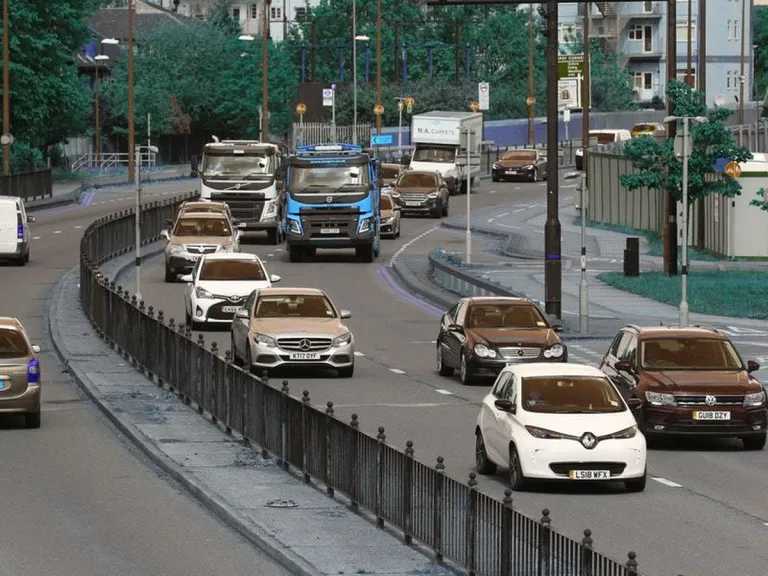
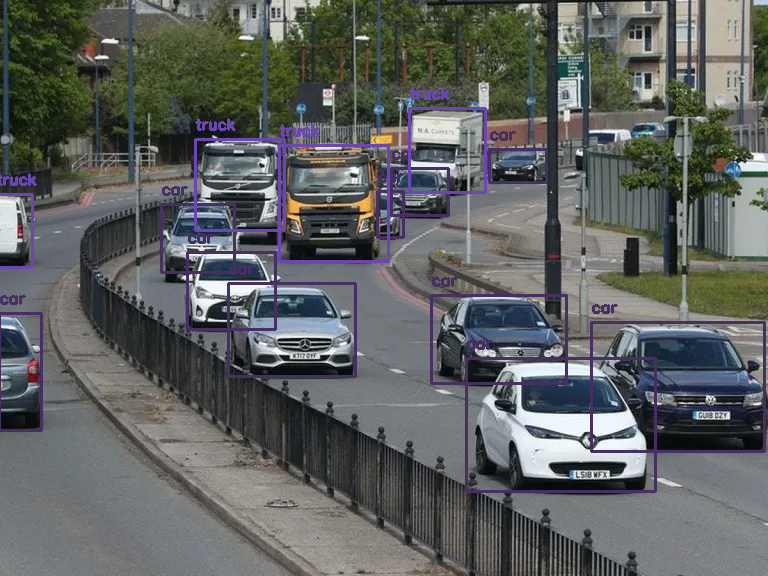
add a feature

diff --git a/main.py b/main.py
@@ -1,8 +1,7 @@
 from PyQt5.QtCore import Qt
 from count import count
-import sys
-from PyQt5.QtWidgets import QApplication , QMainWindow , QFileDialog , QPushButton , QLabel , QTextEdit, QWidget 
-from PyQt5.QtGui import QDragEnterEvent, QDragMoveEvent, QDropEvent, QPixmap , QIcon
+from PyQt5.QtWidgets import QApplication , QMainWindow , QFileDialog , QPushButton , QLabel , QTextEdit, QWidget  
+from PyQt5.QtGui import QDragEnterEvent, QDragMoveEvent, QDropEvent, QPixmap , QIcon 
 from PyQt5.uic import loadUi
 
 class MainWindow(QMainWindow):
@@ -26,9 +25,10 @@ class MainWindow(QMainWindow):
         else:
             result=count(obj_name,self.image_path)
             self.numObjectsLabel.setText(result[0])
+            self.set_output_image()
 
     def browse_files(self):
-        fname=QFileDialog.getOpenFileName(self,'Select Image','.\images','Images (*.png *.xmp *.jpg *.jpeg *.svg)')
+        fname=QFileDialog.getOpenFileName(self,'Select Image','E:\qt_programs\count\images','Images (*.png *.xmp *.jpg *.jpeg *.svg)')
         if(fname[0]==''):
             return
         self.imgLabel:QLabel
@@ -64,7 +64,13 @@ class MainWindow(QMainWindow):
                 self.imgLabel.size(), Qt.KeepAspectRatio, Qt.SmoothTransformation)
         self.imgLabel.setPixmap(scaled_pixmap)
 
-        
+    def set_output_image(self):
+        pixmap=QPixmap('images/output.png')
+        scaled_pixmap = pixmap.scaled(
+                self.imgLabel.size(), Qt.KeepAspectRatio, Qt.SmoothTransformation)
+        self.output:QLabel
+        self.output.setPixmap(scaled_pixmap)
+        self.resize(self.imgLabel.frameGeometry().width()*2+20,self.frameGeometry().height())
 
 app=QApplication([])
 mainWindow=MainWindow()

diff --git a/count.py b/count.py
@@ -8,12 +8,13 @@ def count(object:str,image_path:str):
     image = cv2.imread(image_path)
 
     # Detect common objects in the image
-    boxes, labels, confidences = cv.detect_common_objects(image,0.5,0.3,'yolov3')
+    # boxes, labels, confidences = cv.detect_common_objects(image,0.5,0.3,'yolov3')
+    boxes, labels, confidences = cv.detect_common_objects(image)
 
     # Draw bounding boxes on the image
     output = draw_bbox(image, boxes, labels, confidences)
-    output_rgb = cv2.cvtColor(output, cv2.COLOR_BGR2RGB)
-    cv2.imwrite('./images/output.png',output_rgb)
+    # output_rgb = cv2.cvtColor(output, cv2.COLOR_BGR2RGB)
+    cv2.imwrite('./images/output.png',output)
 
     # # Display the images
     # plt.figure(figsize=(10, 10))
@@ -22,7 +23,7 @@ def count(object:str,image_path:str):
     # plt.show()
 
     num_cars = labels.count(object)
-    return (f"Number of {object}: {num_cars}",output_rgb)
+    return (f"Number of {object}: {num_cars}",output)
 
 if __name__ == '__main__':
     test = count('car','./images/cars.png')
